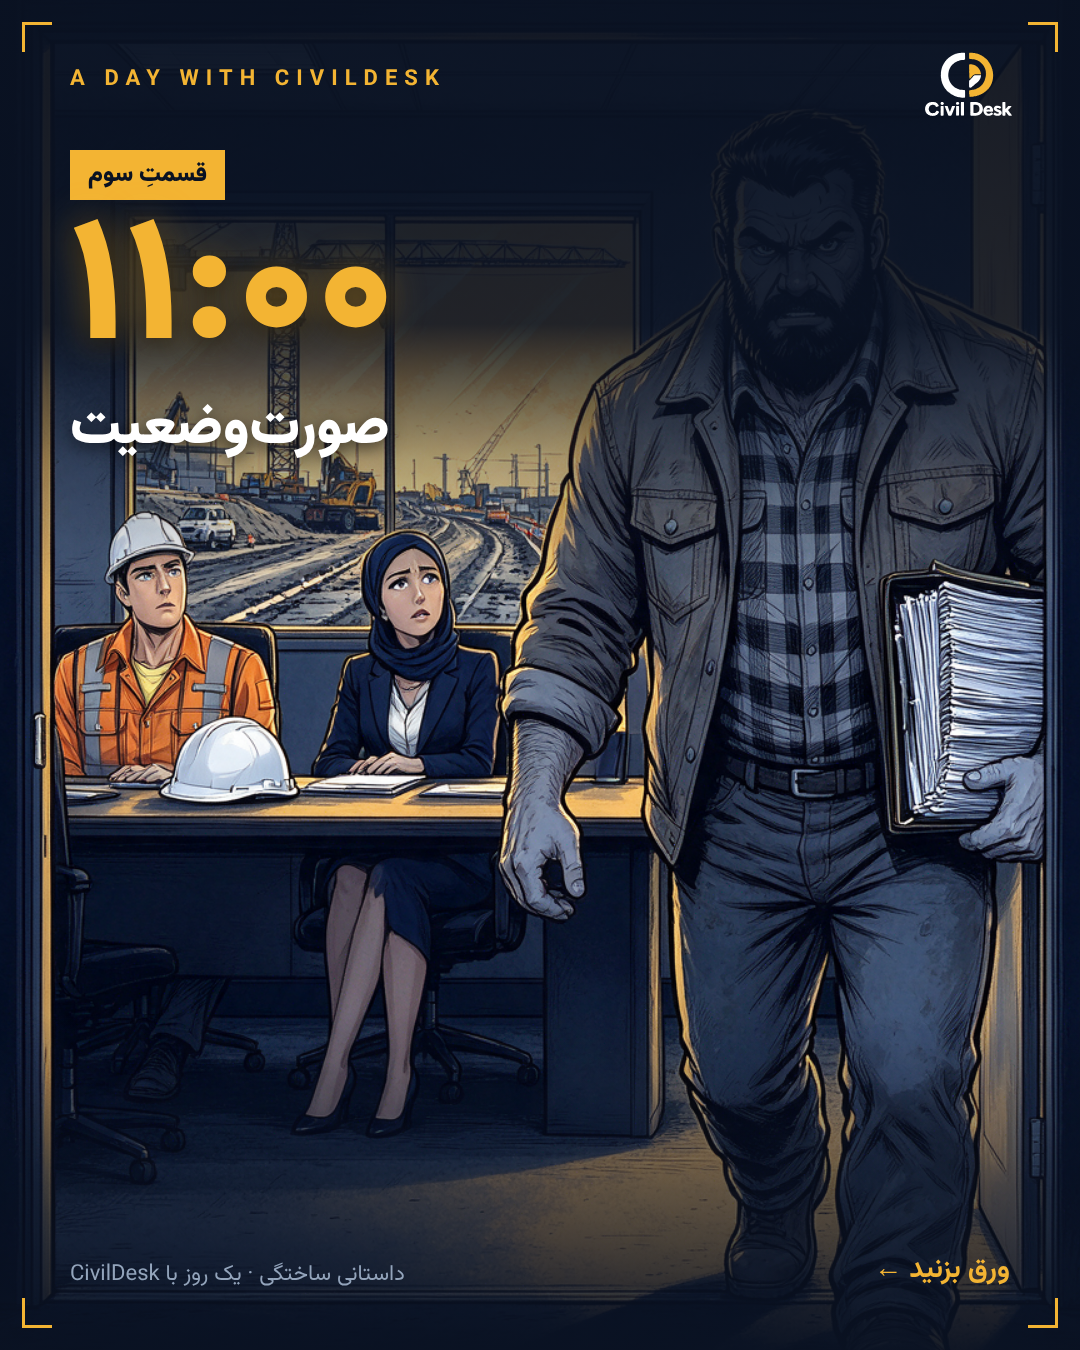
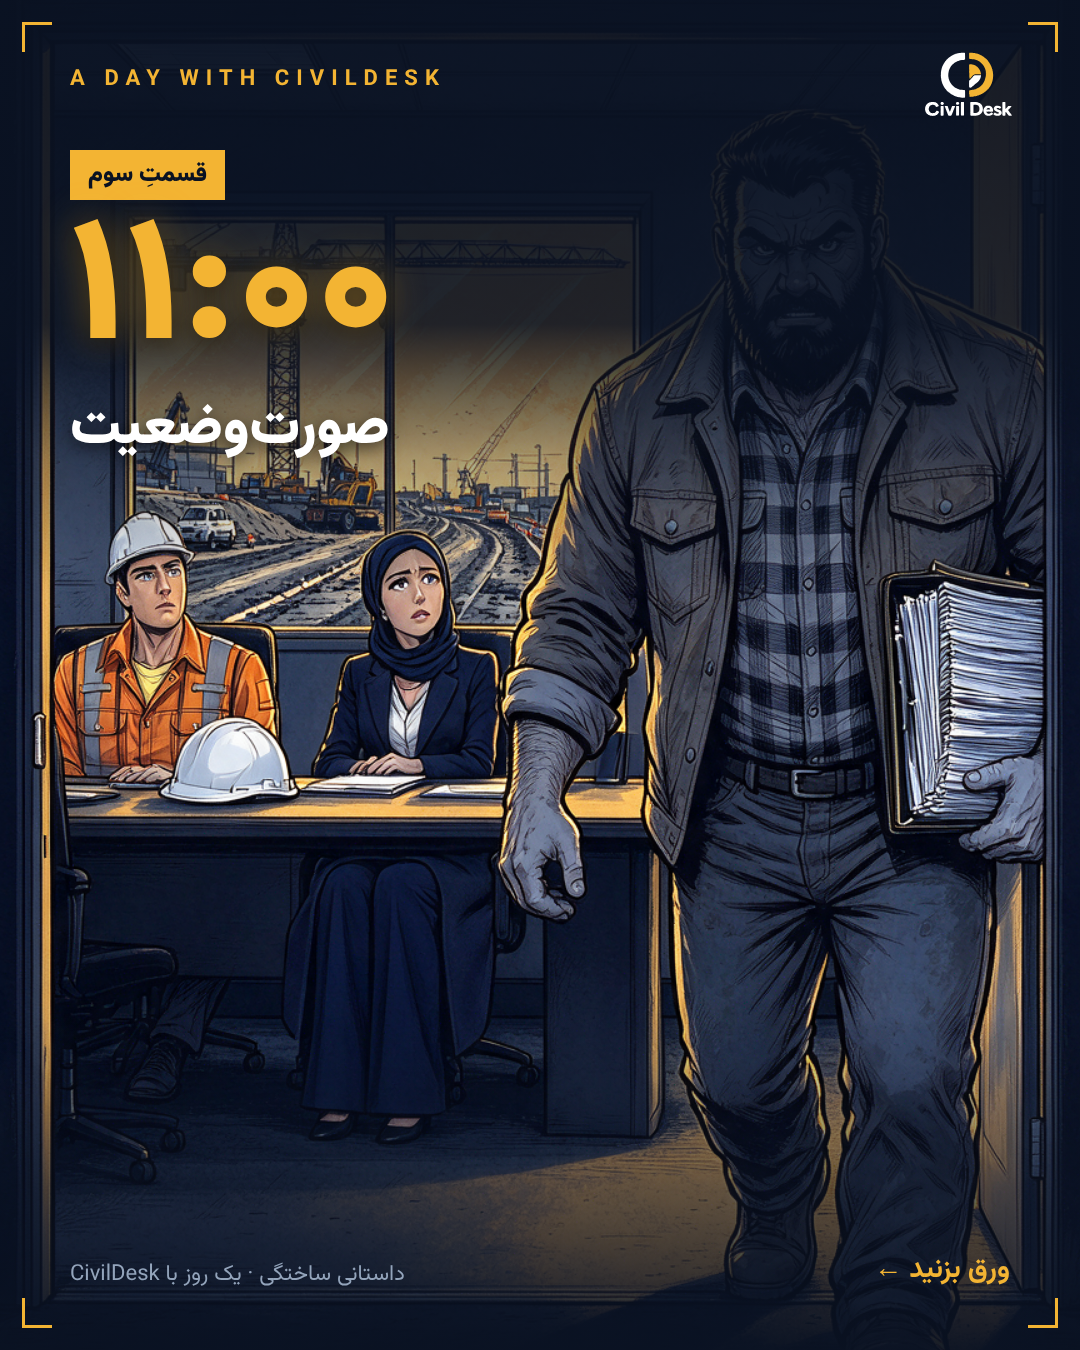
Episode 3 cover: fix Niloufar's clothing (manteau and trousers) and extra leg
Add a character guide with fixed appearance and modest-dress rules for prompts.

Claude-Session: https://claude.ai/code/session_01AiEVB3QQLP2i3zQnBRmyCY

diff --git a/comics/ep03-1100/carousel.html b/comics/ep03-1100/carousel.html
@@ -124,7 +124,7 @@
 
 <!-- ================= SLIDE 1: COVER ================= -->
 <section class="slide cover" id="s1">
-  <img class="art" src="panels/panel-1-1.png" alt="" style="object-position:center 40%;">
+  <img class="art" src="panels/panel-1-1-v2.png" alt="" style="object-position:center 40%;">
   <div class="shade"></div>
   <i class="crop tl"></i><i class="crop tr"></i><i class="crop bl"></i><i class="crop br"></i>
   <div class="kicker">A DAY WITH CIVILDESK</div>

diff --git a/marketing-kit/assets/characters/README.md b/marketing-kit/assets/characters/README.md
@@ -1,0 +1,14 @@
+# شخصیتهای کمیک CivilDesk — راهنمای ثابت تصویرسازی
+
+| شخصیت | ظاهر ثابت | مرجع |
+|---|---|---|
+| مهندس آرمان — مدیر پروژه | جوان، موی تیره، چشم آبی، کلاه ایمنی سفید (بدون نوشته)، کاپشن نارنجی شبرنگ با نوار طوسی | `arman-reference.png` |
+| حسین — سرپرست کارگاه | حدود ۵۰، سبیل پرپشت جوگندمی، کلاه زرد خاکی، جلیقهٔ شبرنگ زرد-سبز روی پیراهن سرمهای | `hossein-reference.png` |
+| مهندس کاوه — تأمین | حدود ۳۵، تهریش تیره، پیراهن سفید، کراوات شل | قاب ۵-۱ قسمت اول |
+| نیلوفر — مالی | **محجبه:** روسری سرمهای، **مانتوی بلند و گشاد سرمهای، شلوار بلند و گشاد تا مچ، کفش تخت بسته** — هرگز دامن یا پای برهنه | قاب ۲-۳ قسمت سوم |
+| آقای جلالی — پیمانکار جزء | حدود ۴۵، ریش مشکی پرپشت، پیراهن چهارخانه، کاپشن کار | قاب ۵-۱ قسمت دوم |
+
+## قانونهای ثابت در هر پرامپت
+- هر شخصیت زن: پوشش کامل اسلامی — روسری/مقنعه، مانتوی بلند، شلوار بلند؛ هیچ دامن، ساق یا پای برهنه.
+- آناتومی را چک کنید: دقیقاً دو دست و دو پا؛ قبل از استفاده، پاها و دستها را در هر قاب بازبینی کنید.
+- بدون هیچ نوشته، حروف، لوگو یا بالون داخل تصویر (متنها جداگانه با فونت وزیرمتن اضافه میشوند).

diff --git a/comics/ep03-1100/script.md b/comics/ep03-1100/script.md
@@ -8,7 +8,7 @@
 |---|---|
 | آقای جلالی — پیمانکار جزء (حدود ۴۵، ریش مشکی پرپشت، پیراهن چهارخانه، کاپشن کار، کلاه سفید زیر بغل) | قاب ۵-۱ قسمت دوم |
 | مهندس آرمان — مدیر پروژه | `marketing-kit/assets/characters/arman-reference.png` |
-| نیلوفر — کارشناس مالی (روسری سرمهای، کت تیره) | قاب ۴-۲ قسمت اول |
+| نیلوفر — کارشناس مالی (محجبه: روسری سرمهای، مانتوی بلند و گشاد سرمهای، شلوار بلند، کفش تخت بسته) | قاب ۴-۲ قسمت اول |
 
 ---
 
